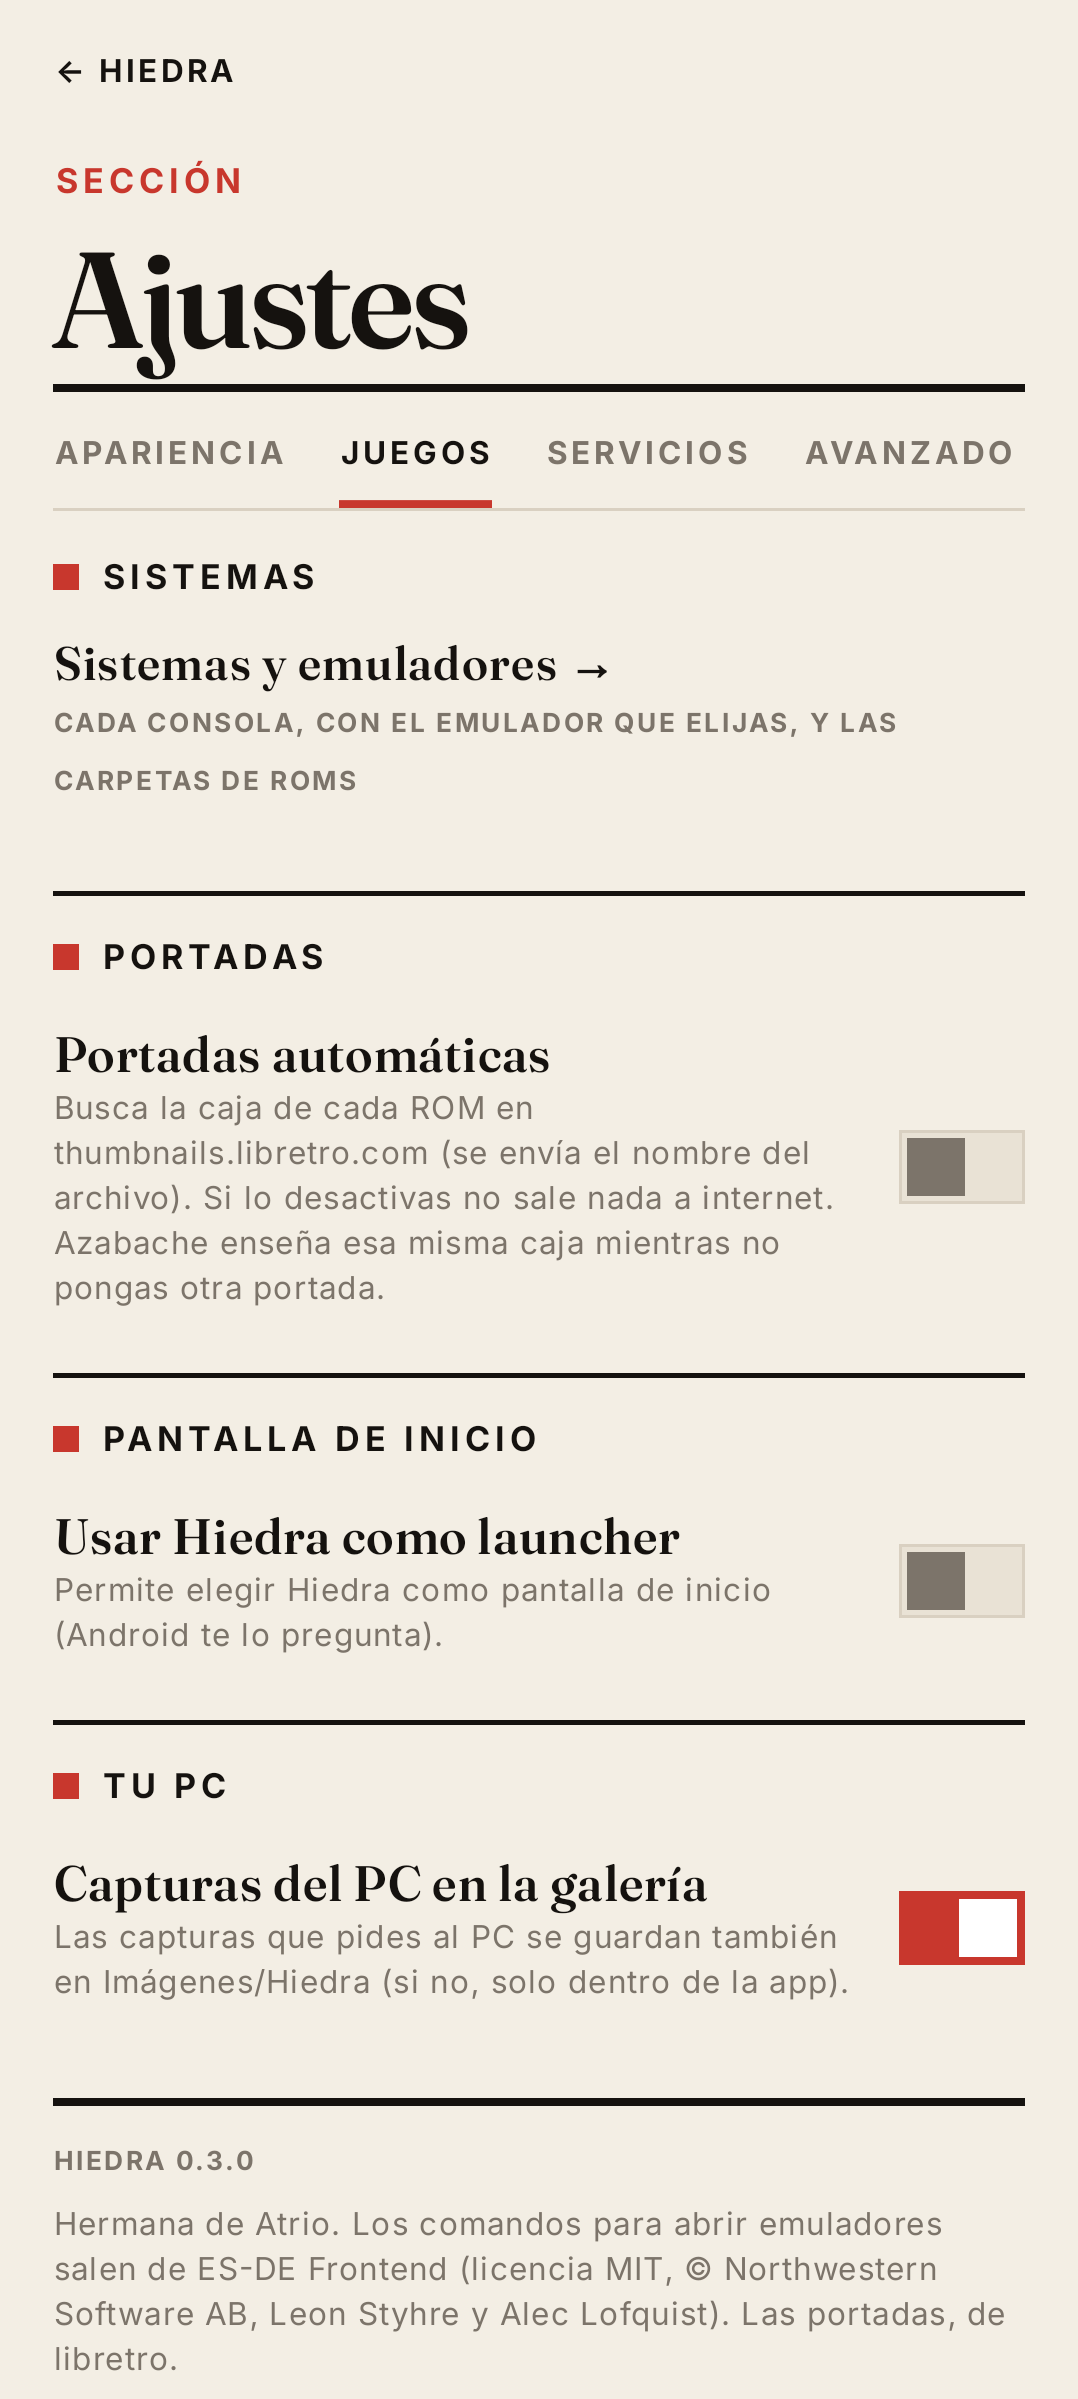
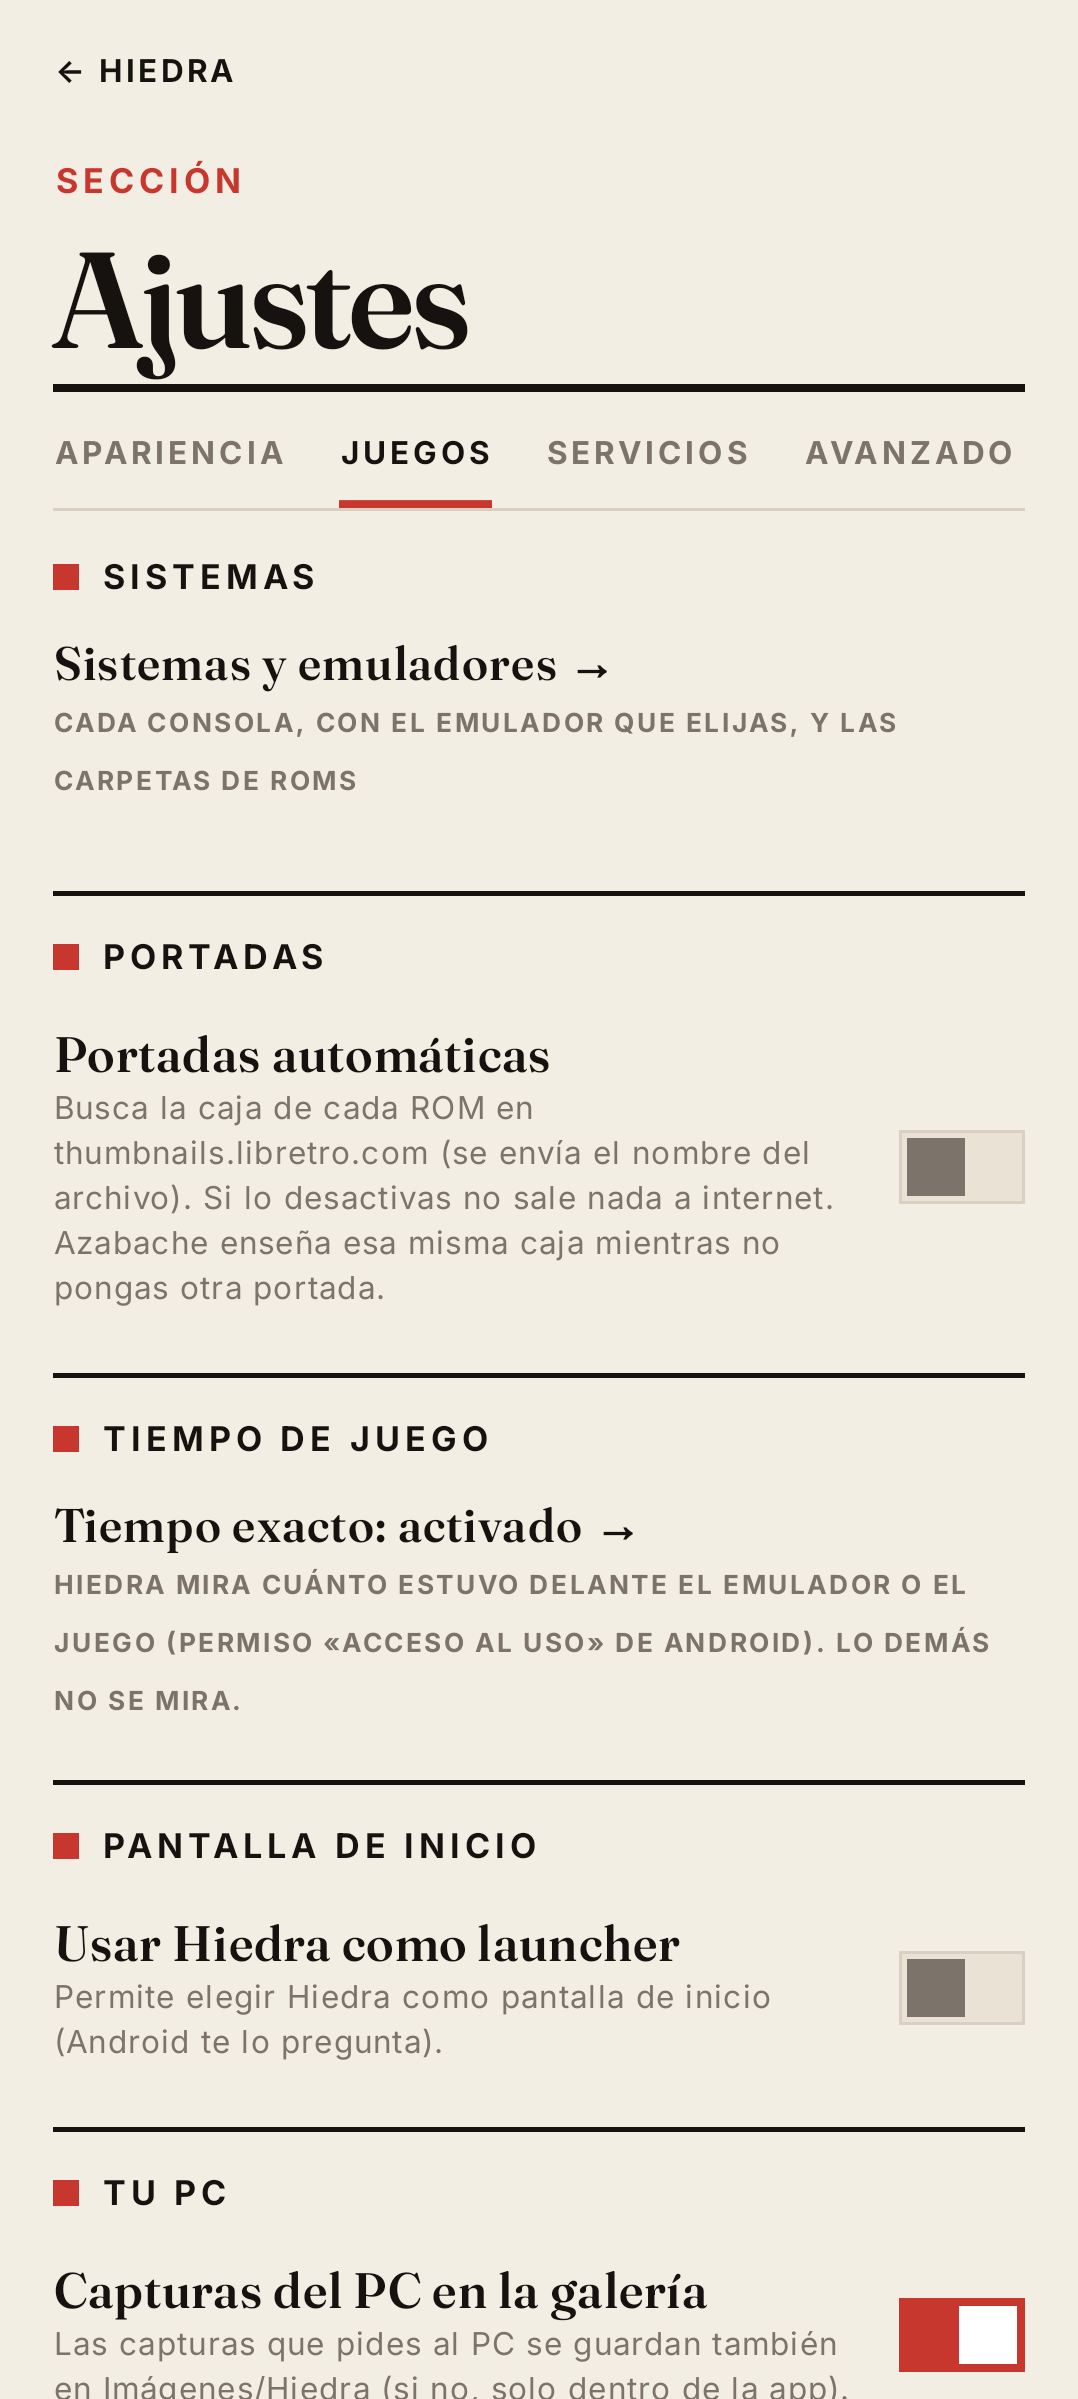
Hiedra 0.3.2: el tiempo de juego exacto
Con el permiso «acceso al uso» (Ajustes → Juegos → Tiempo de juego), al volver se
cuenta solo lo que el emulador o el juego estuvo delante (UsageEvents) y la sesión
se reparte entre días por su fin real; sin permiso, como siempre (tope 12 h).
Sesion guarda el paquete abierto. UsoTest. 101 pruebas, 0 fallos.

Claude-Session: https://claude.ai/code/session_01Q4uywen3nuzUg5CTwJaCY5

Changed region(s): [[0.0306, 0.5861, 0.949, 1.0]]

diff --git a/app/src/main/java/com/gonzalo/hiedra/Lanzador.kt b/app/src/main/java/com/gonzalo/hiedra/Lanzador.kt
@@ -95,6 +95,7 @@ object Lanzar {
     }
 
     private fun lanzarYa(c: Context, j: Juego): String? {
+        var paqueteAbierto = ""
         val error: String? = try {
             val l = j.principal ?: return "«${j.titulo}» no se juega desde el móvil" + (if (j.plataforma.isNotBlank()) " (${j.plataforma})" else "") + ". Si tienes su ROM, su app o su web, añádela desde la ficha."
             when (l.tipo) {
@@ -102,20 +103,20 @@ object Lanzar {
                     if (!Archivos.tiene(l.clave)) return "Esta ROM está en otro de tus dispositivos: añádela aquí (mismo sistema y mismo nombre de archivo) y se unirá sola."
                     val e = elegir(c, j) ?: return "Hiedra no sabe lanzar «${l.sistema}»"
                     when (val r = e.resultado) {
-                        is Resultado.Ok -> { c.startActivity(aIntent(r.spec)); null }
+                        is Resultado.Ok -> { c.startActivity(aIntent(r.spec)); paqueteAbierto = r.spec.paquete; null }
                         is Resultado.Falta -> "${e.etiqueta}: ${r.motivo}"
                     }
                 }
                 TipoLanzador.APP -> {
                     val i = c.packageManager.getLaunchIntentForPackage(l.paquete)
-                    if (i == null) "Esa app ya no está instalada" else { i.addFlags(Intent.FLAG_ACTIVITY_NEW_TASK); c.startActivity(i); null }
+                    if (i == null) "Esa app ya no está instalada" else { i.addFlags(Intent.FLAG_ACTIVITY_NEW_TASK); c.startActivity(i); paqueteAbierto = l.paquete; null }
                 }
                 TipoLanzador.WEB -> { c.startActivity(WebJuegoActivity.intent(c, j)); null }
                 TipoLanzador.PC -> return "«${j.titulo}» es del PC: desde su ficha, «Jugar en el PC» o «Streaming»."
             }
         } catch (e: ActivityNotFoundException) { "No se pudo abrir: ¿sigue instalado el emulador?"
         } catch (e: SecurityException) { "Android no deja abrir esto: ${e.message}" }
-        if (error == null) Sesion.empezar(c, j)
+        if (error == null) Sesion.empezar(c, j, paqueteAbierto)
         return error
     }
 
@@ -162,18 +163,25 @@ object Sesion {
         return d.entries.sortedByDescending { it.key }.take(400).associate { it.key to it.value }
     }
 
-    fun empezar(c: Context, j: Juego) {
+    /** [paquete]: la app que se ha abierto (el emulador o el juego), para medir cuánto estuvo delante si hay permiso de uso. */
+    fun empezar(c: Context, j: Juego, paquete: String = "") {
         val k = if (j.estado == Estado.PENDIENTE) j.conEstado(Estado.JUGANDO) else j
         Biblioteca.poner(k.copy(ultima = System.currentTimeMillis(), propias = j.propias.copy(veces = j.propias.veces + 1)))
-        if (j.principal?.tipo != TipoLanzador.WEB) p(c).edit().putString("id", j.id).putLong("desde", System.currentTimeMillis()).apply()
+        if (j.principal?.tipo != TipoLanzador.WEB) p(c).edit().putString("id", j.id).putLong("desde", System.currentTimeMillis()).putString("paq", paquete).apply()
     }
 
-    /** Al volver a Hiedra: suma el tiempo de la sesión que había abierta. */
+    /** Sin permiso de uso: todo el rato hasta volver (como mucho 12 h). */
+    fun aOjo(desde: Long, ahora: Long): Long = (ahora - desde).coerceAtMost(12L * 3600_000)
+
+    /** Al volver a Hiedra: suma el tiempo de la sesión que había abierta (exacto si Android nos deja ver cuándo estuvo delante la app). */
     fun cerrar(c: Context) {
         val p = p(c); val id = p.getString("id", null) ?: return
-        val desde = p.getLong("desde", 0L); p.edit().clear().apply()
-        val ms = (System.currentTimeMillis() - desde).coerceAtMost(12L * 3600_000)
-        if (ms >= 20_000) Biblioteca.por(id)?.let { Biblioteca.poner(it.copy(propias = it.propias.copy(ms = it.propias.ms + ms, dias = conDias(it, System.currentTimeMillis(), ms)))) }
+        val desde = p.getLong("desde", 0L); val paq = p.getString("paq", "") ?: ""; p.edit().clear().apply()
+        val ahora = System.currentTimeMillis()
+        val exacto = Uso.tiempoDelante(c, paq, desde, ahora)
+        val ms = exacto?.ms ?: aOjo(desde, ahora)
+        val fin = exacto?.fin ?: ahora
+        if (ms >= 20_000) Biblioteca.por(id)?.let { Biblioteca.poner(it.copy(propias = it.propias.copy(ms = it.propias.ms + ms, dias = conDias(it, fin, ms)))) }
         // Volver de jugar: si el guardado de este móvil ha cambiado, se sube a la nube
         Biblioteca.por(id)?.takeIf { NubeP.activo(c, it) }?.let { j ->
             val app = c.applicationContext

diff --git a/app/src/main/java/com/gonzalo/hiedra/Uso.kt b/app/src/main/java/com/gonzalo/hiedra/Uso.kt
@@ -1,0 +1,74 @@
+package com.gonzalo.hiedra
+
+import android.app.AppOpsManager
+import android.app.usage.UsageEvents
+import android.app.usage.UsageStatsManager
+import android.content.Context
+import android.content.Intent
+import android.os.Process
+import android.provider.Settings
+
+/**
+ * El tiempo de juego exacto: con el permiso de «acceso al uso» (Ajustes → Juegos), al volver a Hiedra se mira cuánto estuvo DELANTE el
+ * emulador (o la app del juego) desde que se lanzó, en vez de contar todo el rato hasta que vuelves. Sin el permiso, se cuenta como siempre.
+ */
+object Uso {
+    /** ¿Tiene Hiedra el permiso de acceso al uso? */
+    fun permitido(c: Context): Boolean = runCatching {
+        val ops = c.getSystemService(Context.APP_OPS_SERVICE) as AppOpsManager
+        val modo = ops.unsafeCheckOpNoThrow(AppOpsManager.OPSTR_GET_USAGE_STATS, Process.myUid(), c.packageName)
+        modo == AppOpsManager.MODE_ALLOWED
+    }.getOrDefault(false)
+
+    /** Abre la pantalla de Android donde se da el permiso. */
+    fun pedir(c: Context) { runCatching { c.startActivity(Intent(Settings.ACTION_USAGE_ACCESS_SETTINGS).addFlags(Intent.FLAG_ACTIVITY_NEW_TASK)) } }
+
+    /** Un paso de la app por delante o por detrás (lo que Android apunta). */
+    class Paso(val t: Long, val delante: Boolean)
+
+    /** Lo que estuvo delante: el total y cuándo acabó la última vez (para repartirlo entre días). */
+    class Delante(val ms: Long, val fin: Long)
+
+    /**
+     * Suma lo que la app estuvo delante entre [desde] y [hasta] a partir de sus pasos (en orden de tiempo). Si ya estaba delante al empezar
+     * (su primer paso es «detrás»), cuenta desde [desde]; si sigue delante al acabar, cuenta hasta [hasta]. Sin red ni móvil: se prueba.
+     */
+    fun delante(pasos: List<Paso>, desde: Long, hasta: Long): Delante? {
+        if (pasos.isEmpty() || hasta <= desde) return null
+        var total = 0L; var abierto: Long? = null; var fin = desde
+        for (p in pasos.sortedBy { it.t }) {
+            val t = p.t.coerceIn(desde, hasta)
+            if (p.delante) { if (abierto == null) abierto = t }
+            else { val a = abierto ?: if (total == 0L && fin == desde) desde else null; if (a != null) { total += t - a; fin = t; abierto = null } }
+        }
+        abierto?.let { total += hasta - it; fin = hasta }
+        return Delante(total, fin)
+    }
+
+    /** Los pasos de esa app entre dos horas, según Android (null si no hay permiso o nada que contar). */
+    fun pasosDe(c: Context, paquete: String, desde: Long, hasta: Long): List<Paso>? {
+        if (!permitido(c)) return null
+        return runCatching {
+            val usm = c.getSystemService(Context.USAGE_STATS_SERVICE) as UsageStatsManager
+            val ev = usm.queryEvents(desde - 60_000, hasta)
+            val out = ArrayList<Paso>()
+            val e = UsageEvents.Event()
+            while (ev.hasNextEvent()) {
+                ev.getNextEvent(e)
+                if (e.packageName != paquete) continue
+                when (e.eventType) {
+                    UsageEvents.Event.ACTIVITY_RESUMED -> out += Paso(e.timeStamp, true)
+                    UsageEvents.Event.ACTIVITY_PAUSED, UsageEvents.Event.ACTIVITY_STOPPED -> out += Paso(e.timeStamp, false)
+                }
+            }
+            out
+        }.getOrNull()
+    }
+
+    /** Cuánto estuvo delante esa app desde que se lanzó el juego (null = no se sabe: sin permiso o sin datos; se cuenta como siempre). */
+    fun tiempoDelante(c: Context, paquete: String, desde: Long, hasta: Long = System.currentTimeMillis()): Delante? {
+        if (paquete.isBlank()) return null
+        val pasos = pasosDe(c, paquete, desde, hasta) ?: return null
+        return delante(pasos, desde, hasta)
+    }
+}

diff --git a/app/src/main/java/com/gonzalo/hiedra/PantEstilo.kt b/app/src/main/java/com/gonzalo/hiedra/PantEstilo.kt
@@ -37,7 +37,7 @@ import androidx.compose.material3.TextButton
 import kotlinx.coroutines.Dispatchers
 import kotlinx.coroutines.withContext
 
-const val VERSION = "0.3.1"
+const val VERSION = "0.3.2"
 
 private fun aliasInicio(c: Context) = ComponentName(c, "com.gonzalo.hiedra.InicioAlias")
 private fun esInicio(c: Context) = c.packageManager.getComponentEnabledSetting(aliasInicio(c)) == PackageManager.COMPONENT_ENABLED_STATE_ENABLED
@@ -77,6 +77,18 @@ fun PantEstilo(alVolver: () -> Unit, alSistemas: () -> Unit = {}) {
                 Fila("Portadas automáticas", "Busca la caja de cada ROM en thumbnails.libretro.com (se envía el nombre del archivo). Si lo desactivas no sale nada a internet. Azabache enseña esa misma caja mientras no pongas otra portada.") {
                     Interruptor(Ajustes.portadasLibretro) { Ajustes.portadasLibretro = it; Ajustes.guardar(ctx) }
                 }
+                Spacer(Modifier.height(14.dp))
+                Filete(2.dp)
+                Spacer(Modifier.height(12.dp))
+                Antetitulo("Tiempo de juego", Modifier.padding(bottom = 4.dp))
+                var uso by remember { mutableStateOf(Uso.permitido(ctx)) }
+                val owner = androidx.lifecycle.compose.LocalLifecycleOwner.current
+                DisposableEffect(owner) {
+                    val ob = androidx.lifecycle.LifecycleEventObserver { _, ev -> if (ev == androidx.lifecycle.Lifecycle.Event.ON_RESUME) uso = Uso.permitido(ctx) }
+                    owner.lifecycle.addObserver(ob); onDispose { owner.lifecycle.removeObserver(ob) }
+                }
+                MagLink(if (uso) "Tiempo exacto: activado" else "Tiempo exacto: dar permiso",
+                    if (uso) "Hiedra mira cuánto estuvo delante el emulador o el juego (permiso «acceso al uso» de Android). Lo demás no se mira." else "Sin él, se cuenta todo el rato desde que abres el juego hasta que vuelves a Hiedra (como mucho 12 horas). Con el permiso «acceso al uso» de Android se cuenta solo lo que el emulador o el juego estuvo delante.") { Uso.pedir(ctx) }
                 Spacer(Modifier.height(14.dp))
                 Filete(2.dp)
                 Spacer(Modifier.height(12.dp))

diff --git a/app/src/test/java/com/gonzalo/hiedra/UsoTest.kt b/app/src/test/java/com/gonzalo/hiedra/UsoTest.kt
@@ -1,0 +1,50 @@
+package com.gonzalo.hiedra
+
+import org.junit.Assert.*
+import org.junit.Test
+
+/** El tiempo de juego exacto: cuánto estuvo delante el emulador según los pasos que apunta Android. Sin móvil. */
+class UsoTest {
+    private val M = 60_000L
+    private fun paso(min: Long, delante: Boolean) = Uso.Paso(min * M, delante)
+
+    @Test fun seSumaSoloLoQueEstuvoDelante() {
+        // Lanzado en el minuto 0; delante del 1 al 31, otra vez del 40 al 50; se vuelve a Hiedra en el 60
+        val d = Uso.delante(listOf(paso(1, true), paso(31, false), paso(40, true), paso(50, false)), 0, 60 * M)!!
+        assertEquals(40 * M, d.ms); assertEquals(50 * M, d.fin)
+    }
+
+    @Test fun siSigueDelanteAlVolverCuentaHastaAhora() {
+        val d = Uso.delante(listOf(paso(1, true)), 0, 30 * M)!!
+        assertEquals(29 * M, d.ms); assertEquals(30 * M, d.fin)
+    }
+
+    @Test fun unaPausaSinSuResumeCuentaDesdeElPrincipio() {
+        // Android a veces no apunta el primer «delante» (ya estaba abierto): el primer «detrás» cierra desde el lanzamiento
+        val d = Uso.delante(listOf(paso(20, false)), 0, 60 * M)!!
+        assertEquals(20 * M, d.ms); assertEquals(20 * M, d.fin)
+    }
+
+    @Test fun dosResumeSeguidosNoCuentanDoble() {
+        val d = Uso.delante(listOf(paso(1, true), paso(2, true), paso(10, false), paso(10, false)), 0, 60 * M)!!
+        assertEquals(9 * M, d.ms)
+    }
+
+    @Test fun sinPasosNoSeSabe() {
+        assertNull(Uso.delante(emptyList(), 0, 60 * M))
+        assertNull(Uso.delante(listOf(paso(1, true)), 60 * M, 0))
+    }
+
+    @Test fun aOjoEsTodoElRatoConTopeDeDoceHoras() {
+        assertEquals(30 * M, Sesion.aOjo(0, 30 * M))
+        assertEquals(12 * 60 * M, Sesion.aOjo(0, 3 * 24 * 60 * M))
+    }
+
+    @Test fun unaSesionQueCruzaLaMedianocheSeRepartePorElFinExacto() {
+        // Jugado 2 h que acaban a la 1:00 del día 2 (zona UTC): 1 h en el día 1 y 1 h en el día 2
+        val z = java.util.TimeZone.getTimeZone("UTC")
+        val fin = 24 * 60 * M + 60 * M
+        val r = Sesion.repartir(fin, 120 * M, z)
+        assertEquals(60 * M, r["1970-01-01"]); assertEquals(60 * M, r["1970-01-02"])
+    }
+}
